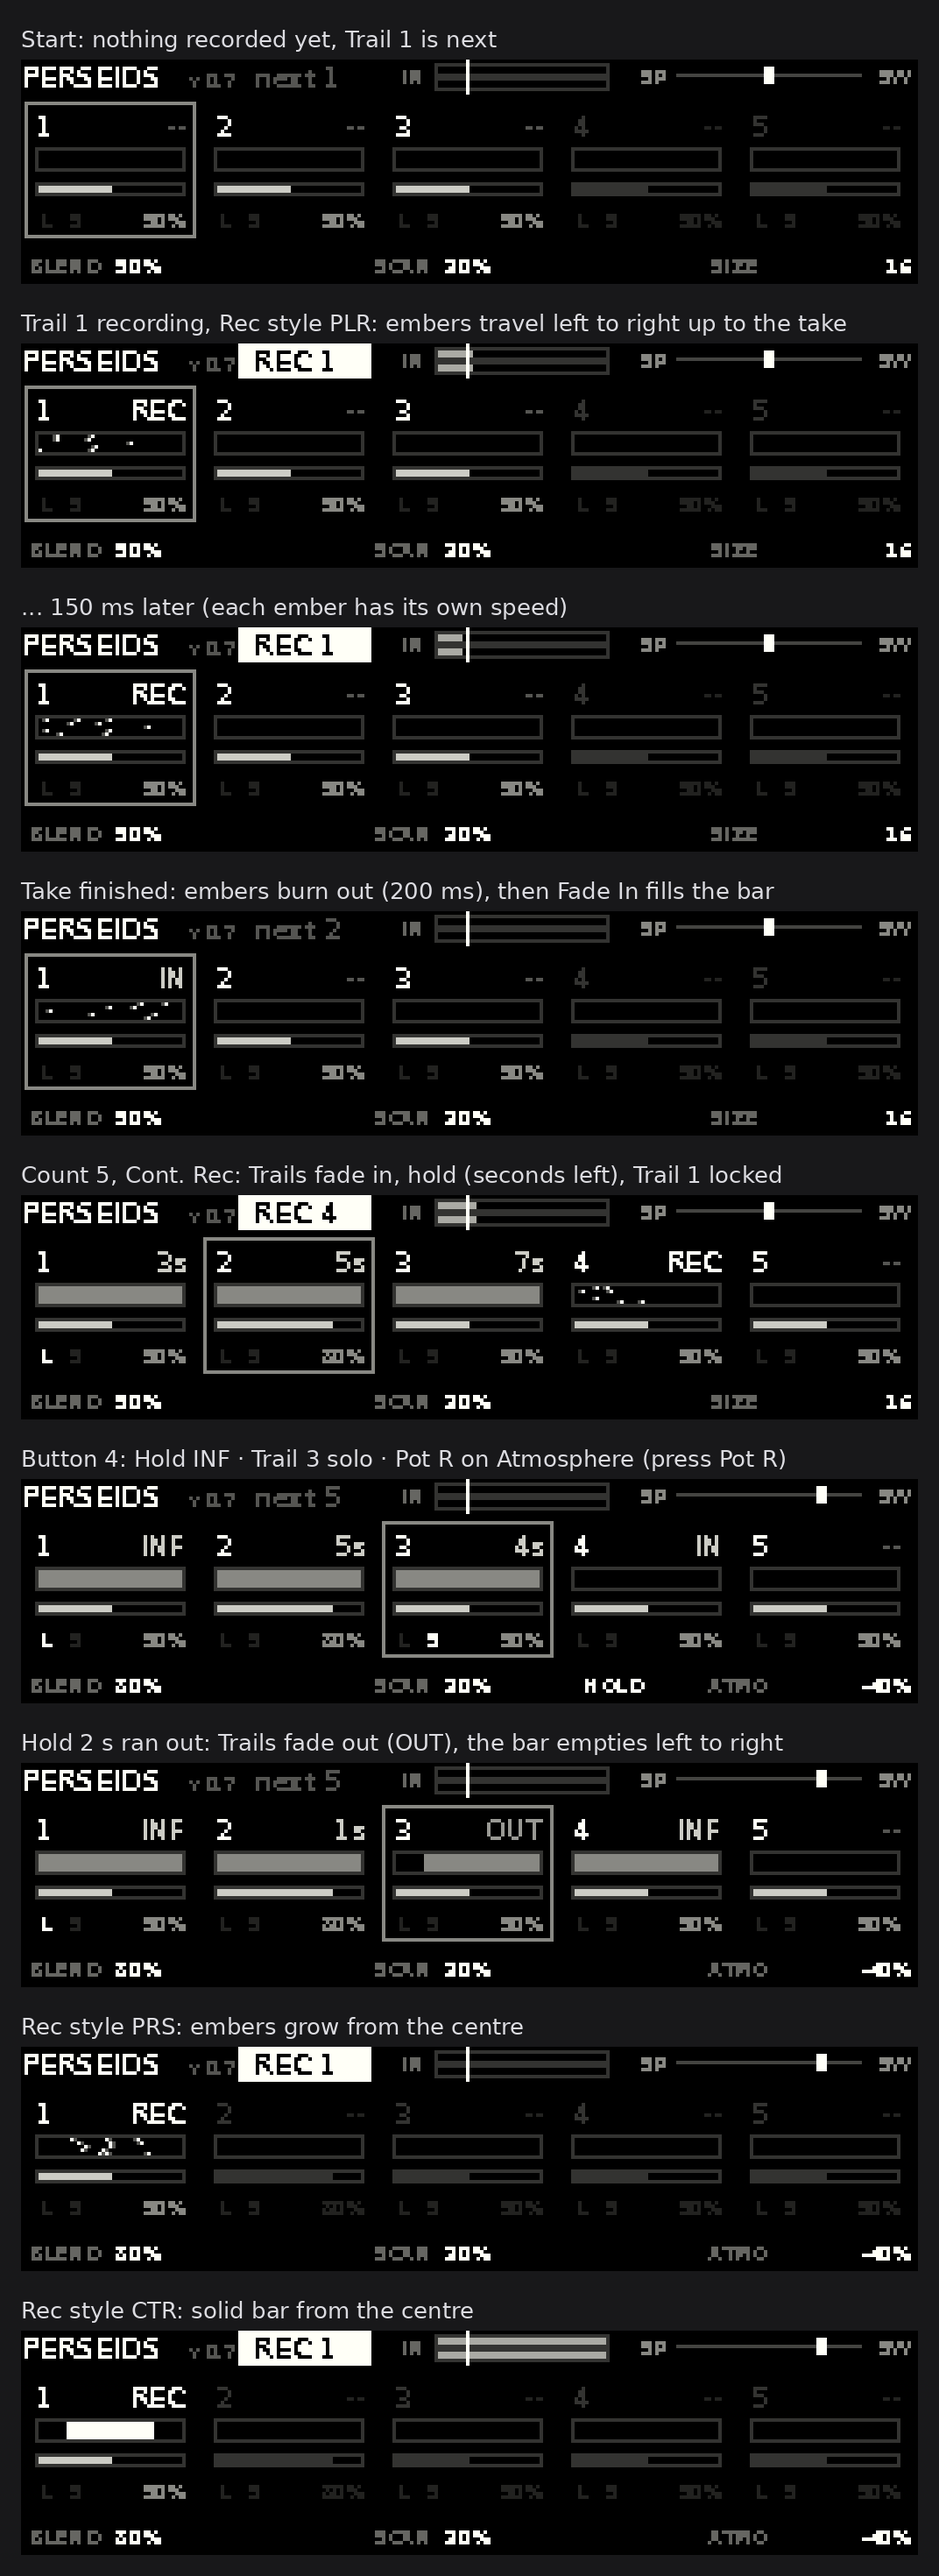
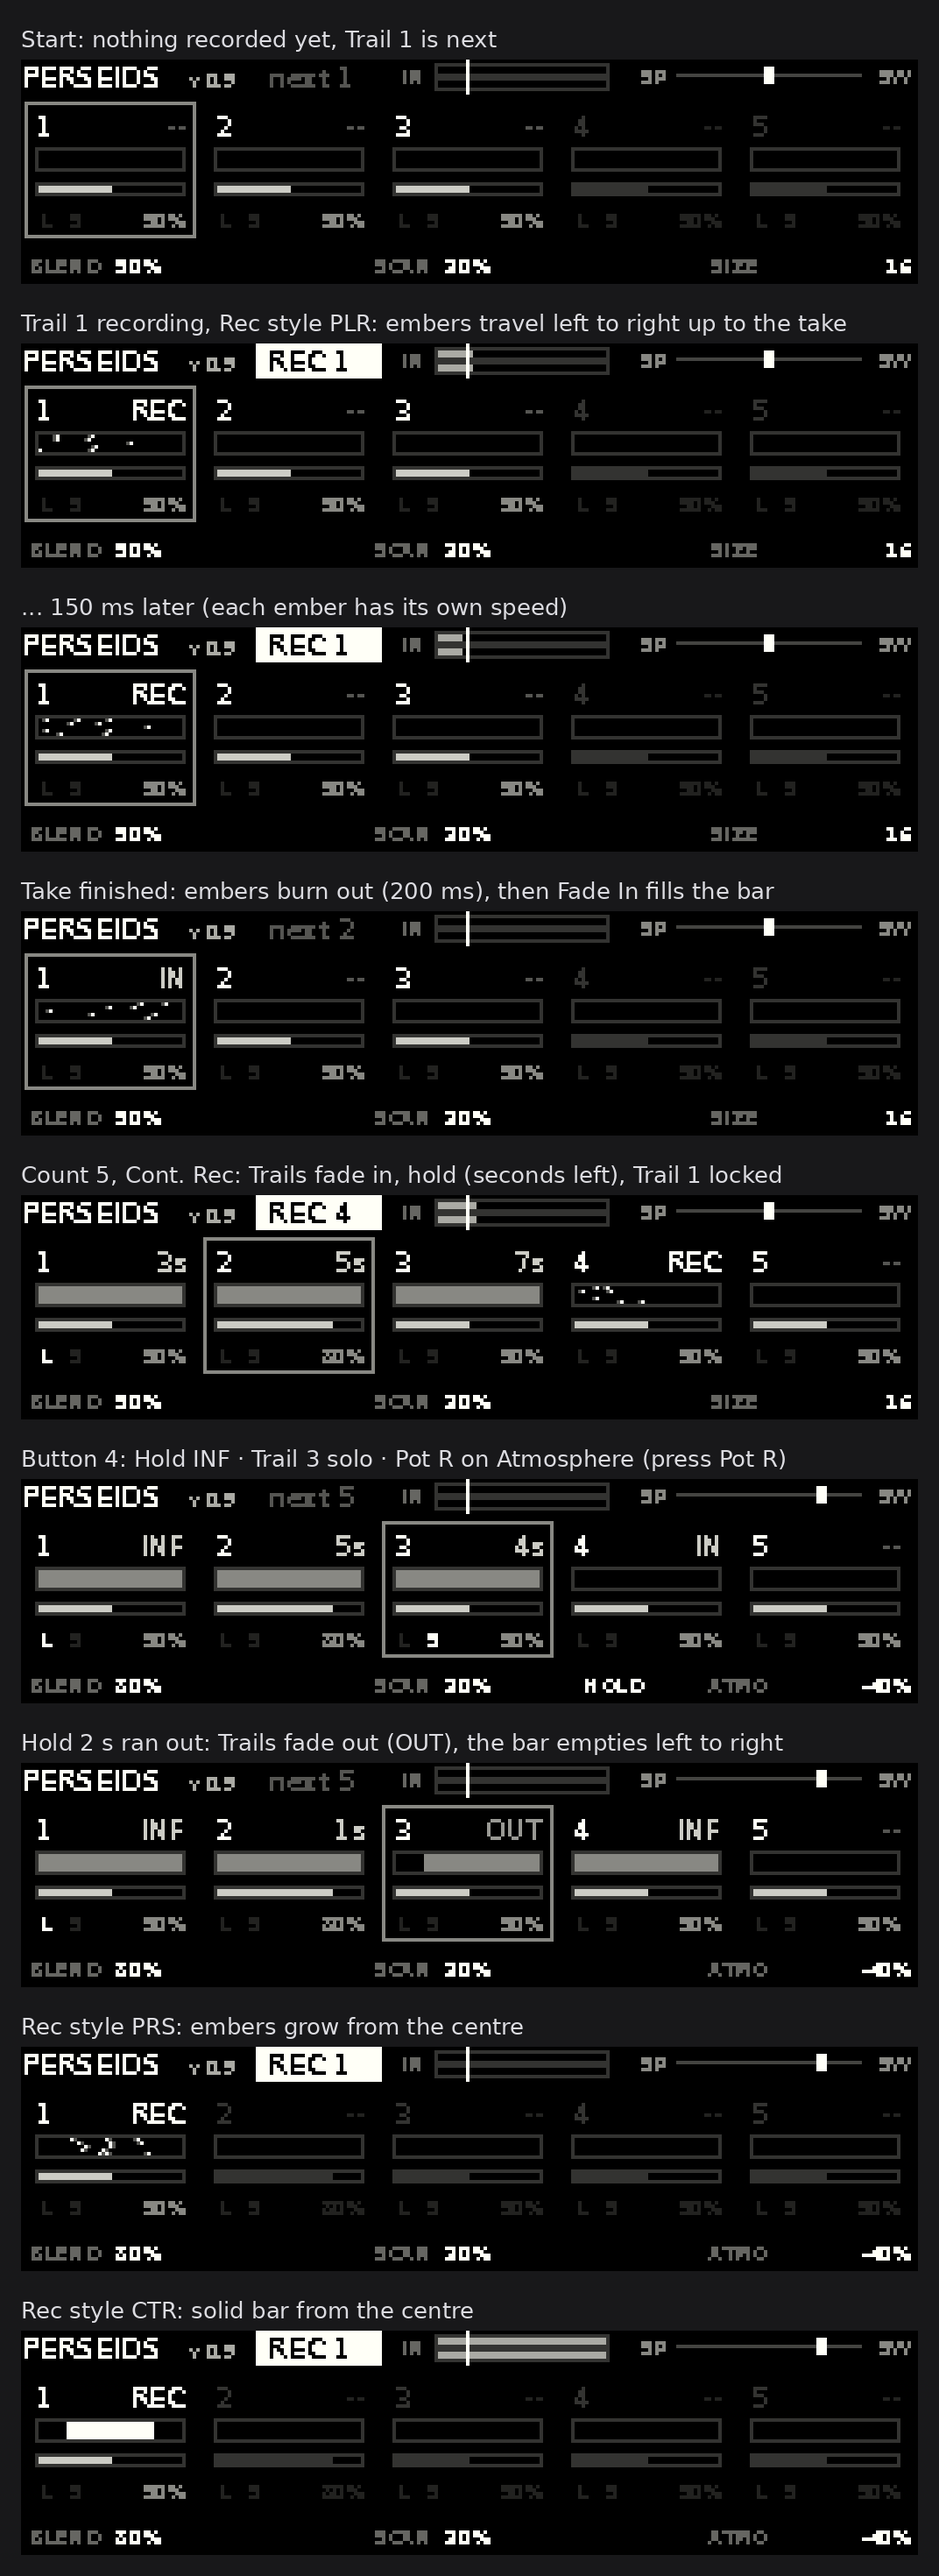
NT-Port — v0.9: REC-Anzeige verdeckt die Versionsnummer nicht mehr 20261010
Der REC-Kasten im Kopf begann bei x 62 und überdeckte das Ende von „v0.8“
(48…64). Kasten jetzt 67…102, Text ab 70; „next n“ endet vor „IN“ (108).
Version heller (Stufe 10). Prüfung der Kopf-Abstände in der Simulation.

Claude-Session: https://claude.ai/code/session_01Em1K8uvjSW18Q1oLi7AzEk

diff --git a/nt/docs/perseids-nt-anleitung.html b/nt/docs/perseids-nt-anleitung.html
@@ -206,7 +206,7 @@ footer{font-size:13px; color:var(--muted); border-top:1px solid var(--line); pad
   <div class="pb">
[1 lines of base64/hex data omitted]
   <ul class="lst">
-    <li><b>Kopfzeile:</b> neben „PERSEIDS“ die Version (z. B. <code>v0.8</code>), daran erkennst du, welche Fassung geladen ist. <code>REC n</code> hell, solange aufgenommen wird, sonst grau <code>next n</code> (wohin die nächste Aufnahme geht). Daneben das Pegelmeter L/R mit der Threshold-Marke, rechts die Blend-Stellung zwischen SP und SW.</li>
+    <li><b>Kopfzeile:</b> neben „PERSEIDS“ die Version (z. B. <code>v0.9</code>), daran erkennst du, welche Fassung geladen ist. <code>REC n</code> hell, solange aufgenommen wird, sonst grau <code>next n</code> (wohin die nächste Aufnahme geht). Daneben das Pegelmeter L/R mit der Threshold-Marke, rechts die Blend-Stellung zwischen SP und SW.</li>
     <li><b>Fünf Spalten</b>, eine pro Trail. Oben Nummer und Zustand: <code>REC</code>, <code>IN</code> (Fade in), Sekunden bis zum Ausblenden, <code>INF</code> (unendlich oder gelockt), <code>OUT</code> (Fade out), <code>--</code> leer.</li>
     <li>Darunter der <b>Lebensbalken</b> (siehe unten) und der <b>Level-Balken</b>, ganz unten <code>L</code> und <code>S</code> (hell = Lock bzw. Solo an) und der Level in Prozent.</li>
     <li>Trails jenseits von <i>Count</i> sind dunkel.</li>

diff --git a/nt/perseids_nt.cpp b/nt/perseids_nt.cpp
@@ -156,7 +156,7 @@ static_assert(sizeof(kModTargetNames) / sizeof(kModTargetNames[0]) == sizeof(kMo
 
 // Plug-in version, shown in the display header and the algorithm description.
 // History in README.md (Versionen).
-#define PERSEIDS_NT_VERSION "0.8"
+#define PERSEIDS_NT_VERSION "0.9"
 const char* const kVersion = "v" PERSEIDS_NT_VERSION;
 
 // Hold: the top value means "infinite" (engine: > 30 s).
@@ -1446,20 +1446,20 @@ bool draw(_NT_algorithm* self)
     // Header: name, recording state, input meter.
     NT_drawText(0, 8, "PERSEIDS", 15);
     // Plug-in version, so it is obvious which build is loaded.
-    NT_drawText(48, 8, kVersion, 5, kNT_textLeft, kNT_textTiny);
+    NT_drawText(48, 8, kVersion, 10, kNT_textLeft, kNT_textTiny);
     const int count = Count(a);
     if(e.capture.RecActive())
     {
         std::strcpy(buff, "REC ");
         NT_intToString(buff + 4, e.capture.RecTrailSlot());
-        NT_drawShapeI(kNT_rectangle, 62, 0, 99, 9, 15);
-        NT_drawText(66, 8, buff, 0);
+        NT_drawShapeI(kNT_rectangle, 67, 0, 102, 9, 15); // clear of the version label
+        NT_drawText(70, 8, buff, 0);
     }
     else
     {
         std::strcpy(buff, "next ");
         NT_intToString(buff + 5, e.capture.RecTrailSlot());
-        NT_drawText(66, 8, buff, 5);
+        NT_drawText(70, 8, buff, 5);
     }
     NT_drawText(108, 7, "IN", 6, kNT_textLeft, kNT_textTiny);
     DrawBar(118, 1, 50, 4, e.capture.InputLevel(), 10);

diff --git a/nt/test/sim.cpp b/nt/test/sim.cpp
@@ -1112,6 +1112,14 @@ int main(int argc, char** argv)
         }
         CHECK(embers > 200, "recording embers drawn (%d draw calls while recording)", embers);
         CHECK(g_textOob == 0 && g_shapeOob == 0, "display: everything on screen (%d draws)", g_draws);
+        {
+            // Header: version label must end left of the REC box (nt_emu font widths).
+            int vw = 0;
+            for(const char* c = kVersion; *c; ++c)
+                vw += 4;
+            CHECK(48 + vw <= 67 && 70 + 35 <= 108,
+                  "header: version (48…%d) clear of REC box (67…102), 'next 5' clear of IN", 48 + vw);
+        }
         g_alg = A.a;
     }
 

diff --git a/nt/README.md b/nt/README.md
@@ -143,6 +143,7 @@ Die Version steht im Display neben „PERSEIDS“ und in der Algorithmus-Beschre
 | 0.6 | Resonator (Spectral Resonator, Block 7) mit V/Oct |
 | 0.7 | Versionsanzeige; nt_emu: Fußzeile zeigt die Taste je Poti-Ziel |
 | 0.8 | nt_emu: Poti-Drücke werden ignoriert (nt_emu meldet beim Anfassen eines Potis einen Druck, Drehen schaltete das Ziel zurück); umgeschaltet wird nur mit Taste 1/2 |
+| 0.9 | REC-Anzeige im Kopf nach rechts, verdeckt die Versionsnummer nicht mehr; Version heller |
 
 ## Stand
 
